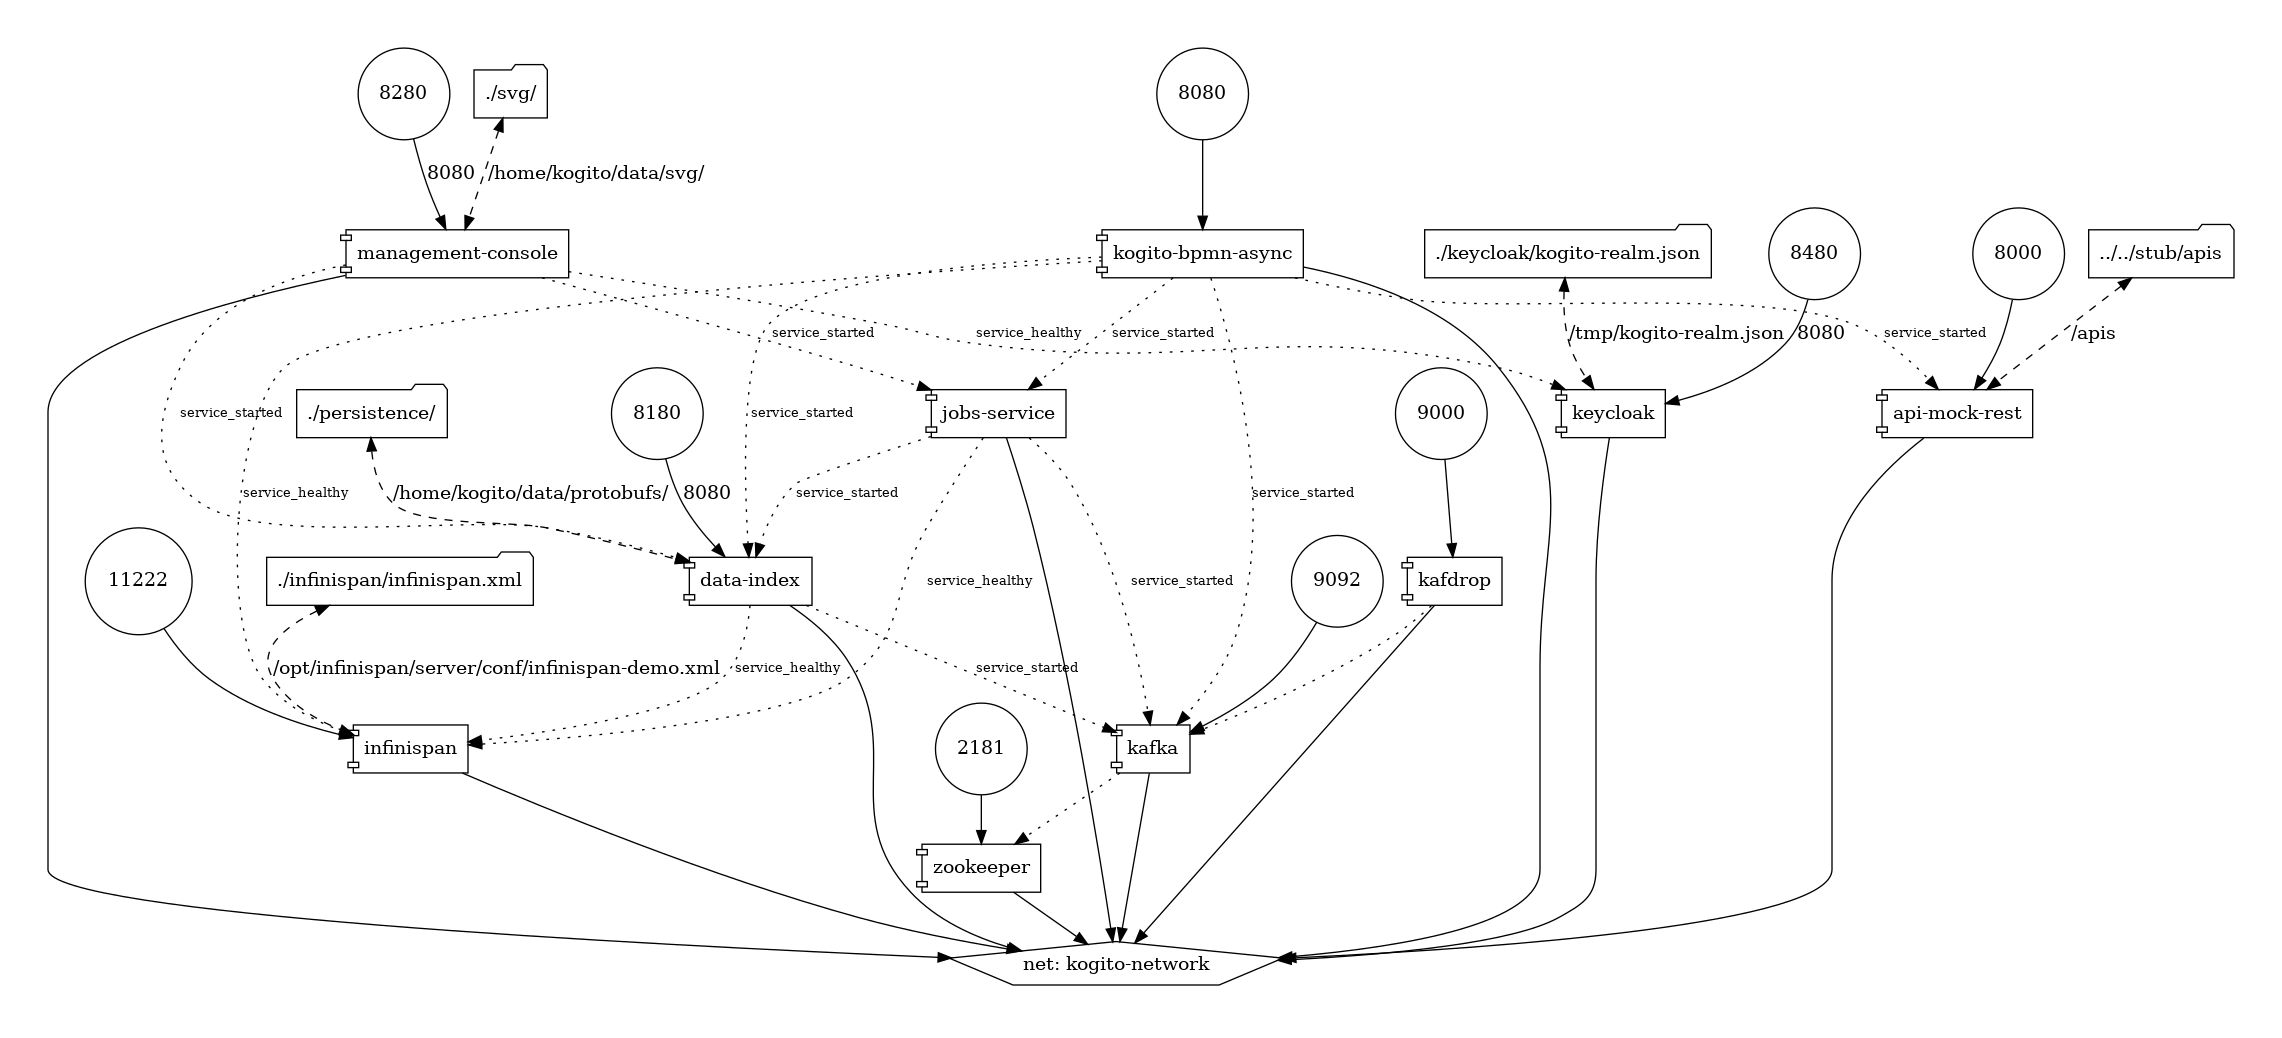
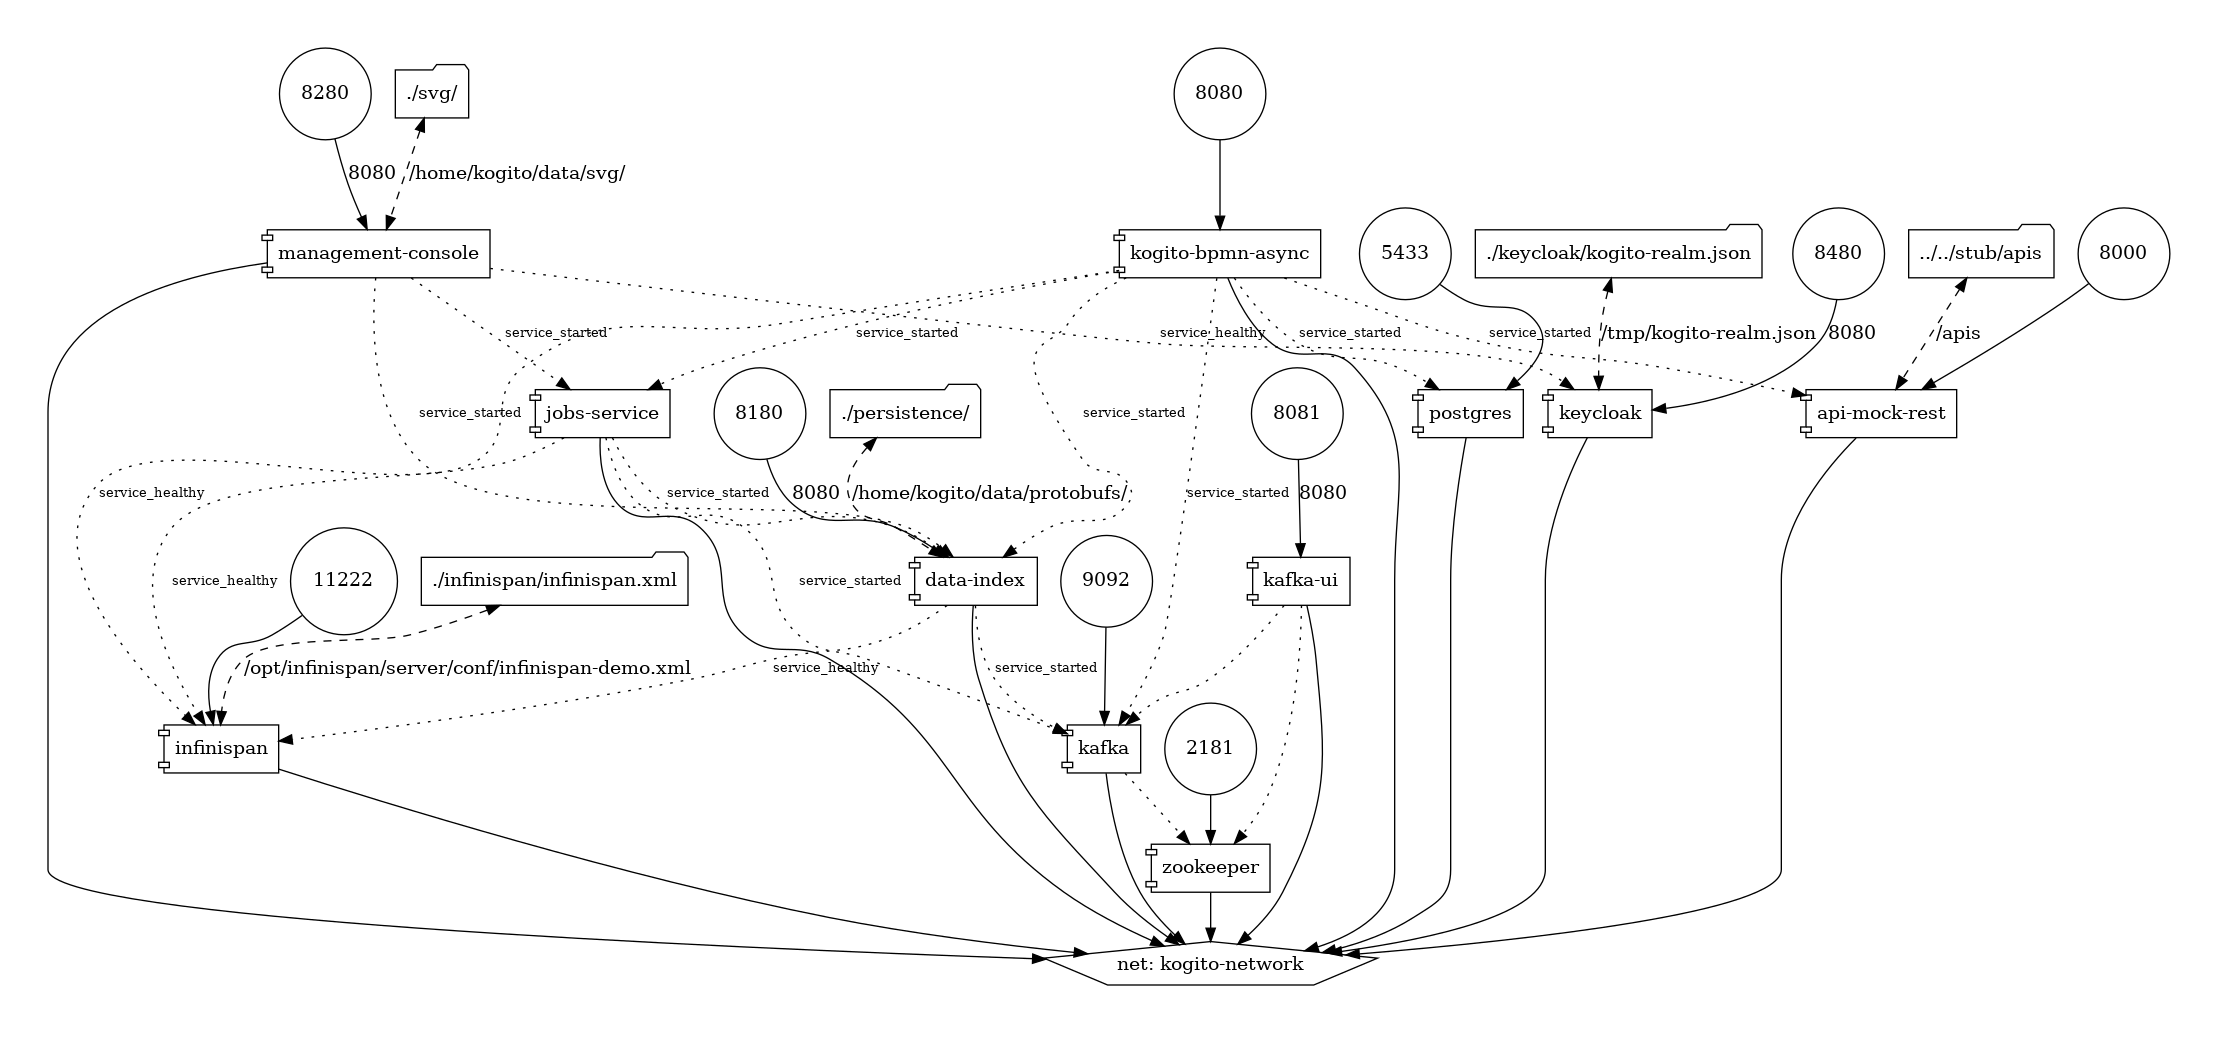
Add postgresql persistence maven profile Move infinispan to maven profile Add postgresql to docker-compose Autobuild kogito app in docker-compose

diff --git a/kogito-bpmn-async/README.md b/kogito-bpmn-async/README.md
@@ -22,6 +22,16 @@ When using native image compilation, you will also need:
 - Environment variable GRAALVM_HOME set accordingly
 - Note that GraalVM native image compilation typically requires other packages (glibc-devel, zlib-devel and gcc) to be installed too, please refer to GraalVM installation documentation for more details.
 
+### Profiles
+
+I have added two profiles: infinispan and postgresql, they shoud be activated as maven profiles like
+
+```sh
+mvn clean package -Ppostgresql
+```
+
+Profile specific confing is prefixed with % in .props file.
+
 ### Compile and Run in Local Dev Mode
 
 ```sh
